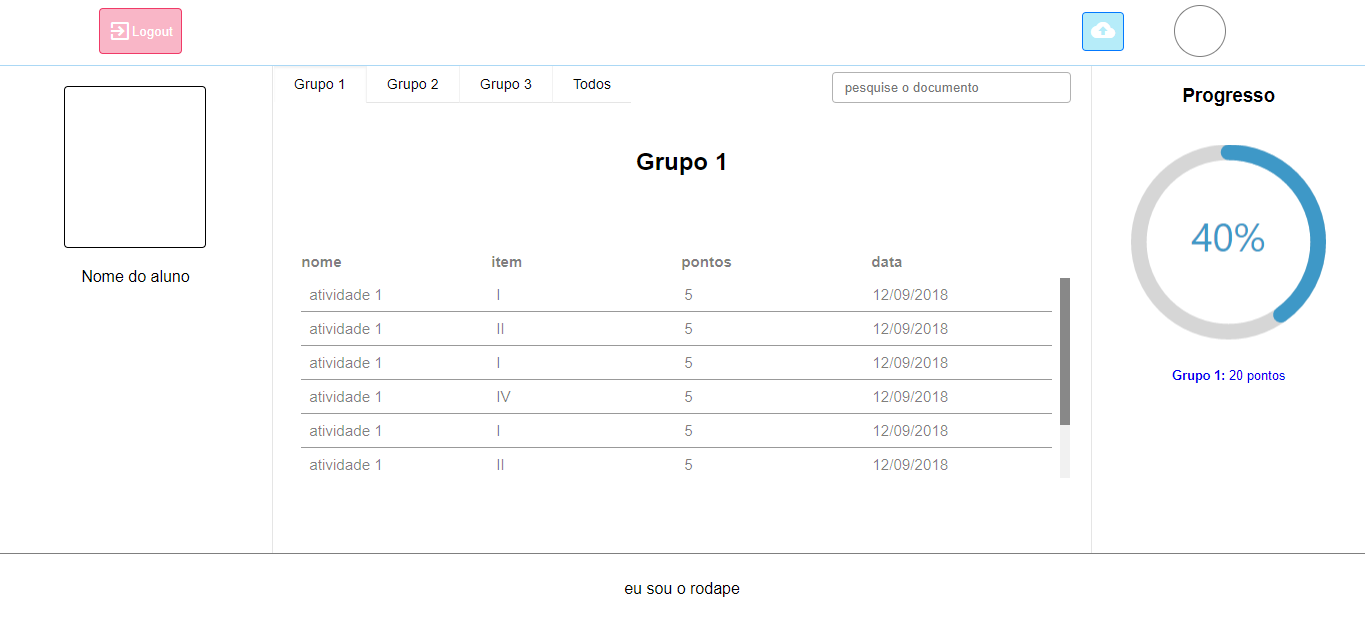
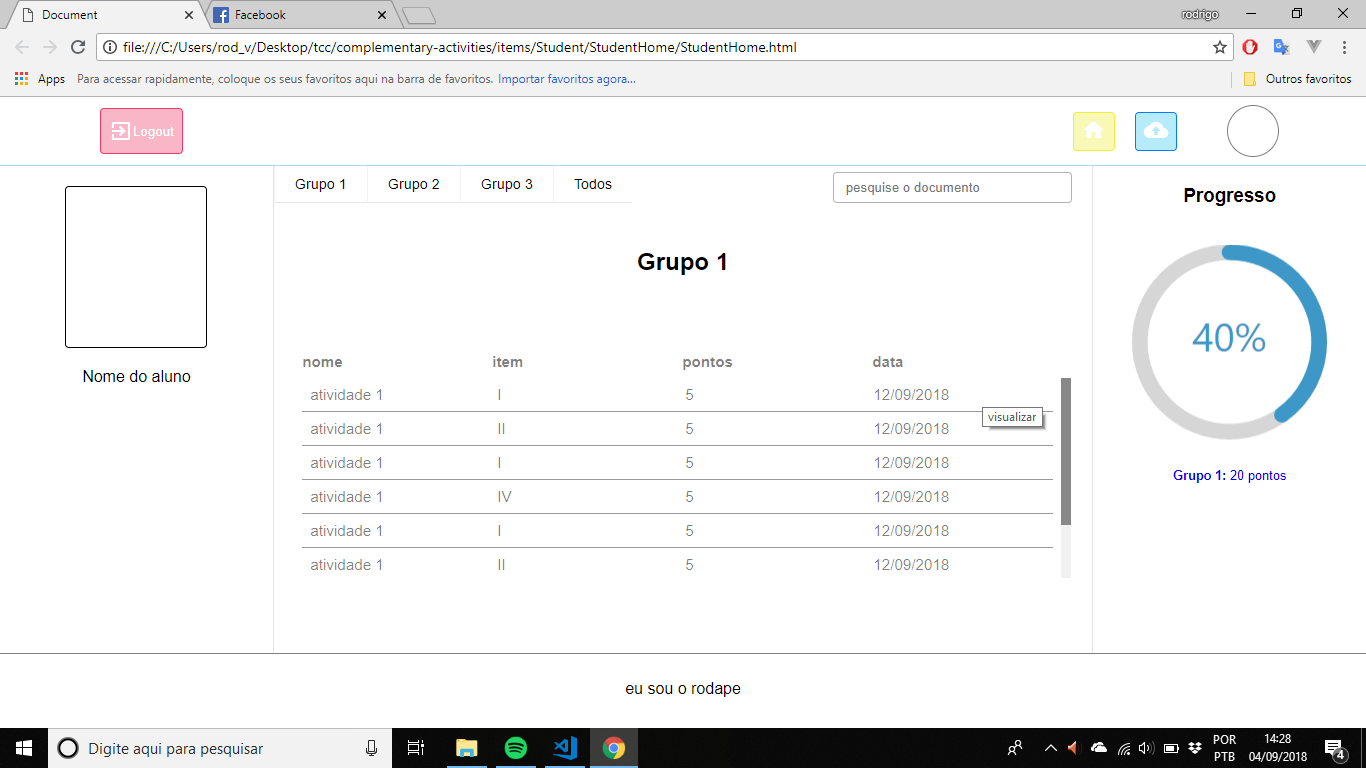
added home button

diff --git a/items/Student/StudentHome/StudentHome.html b/items/Student/StudentHome/StudentHome.html
@@ -69,7 +69,13 @@
     color: white
   }
   .not  .material-icons {
-    color: rgb(241, 225, 133);
+    color: white
+  }
+  .not {
+    border: 1px solid #edf03a;
+    background-color:  #edf03a5e;
+    padding: 5px 8px;
+    border-radius: 4px;
   }
   .logout {
    align-self: center;
@@ -328,6 +334,11 @@
     </div>
     <div class="painel">
       <div class="menu">
+          <span class="not" title="novo documento">
+            <i class="material-icons">
+              home
+            </i>
+          </span>
           <span class="fol" title="novo documento">
             <i class="material-icons">
               cloud_upload
